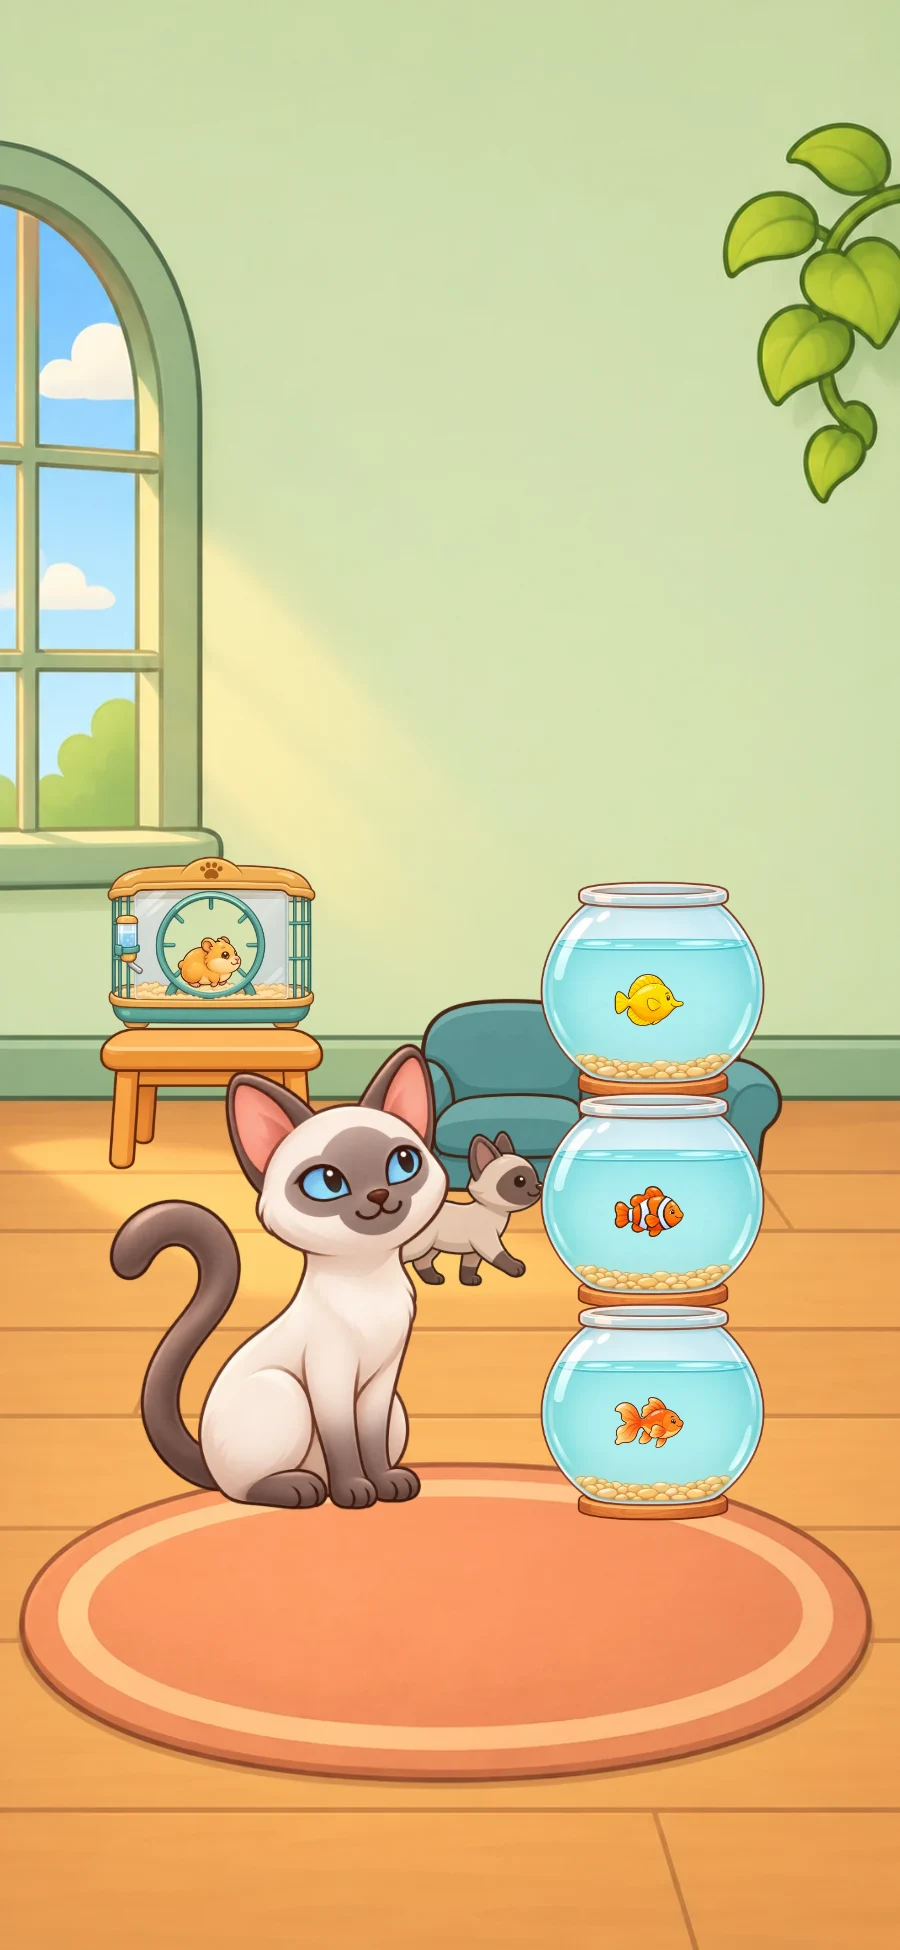
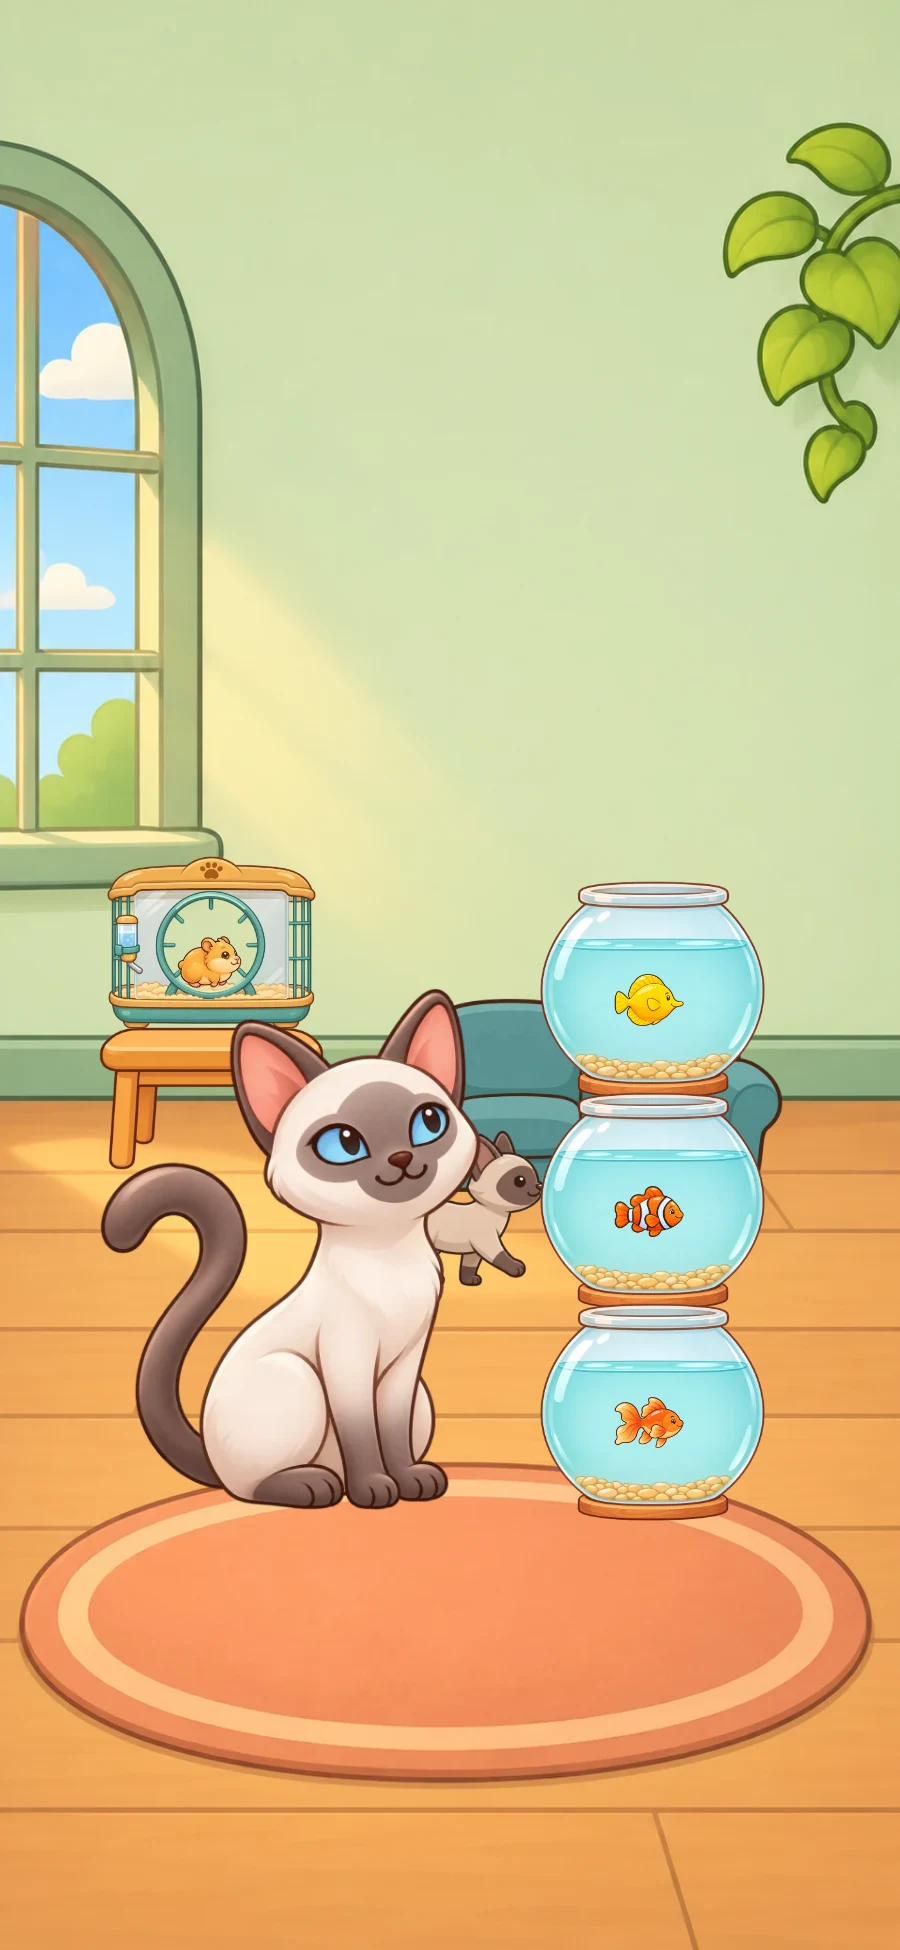
Enlarge Luna and add Cat Room window dust

Changed region(s): [[0.0933, 0.4923, 0.5289, 0.8]]

diff --git a/anim/home-fx.css b/anim/home-fx.css
@@ -4,9 +4,17 @@
 #home-fx .hf { position: absolute; left: var(--x, 50%); display: block; opacity: 0; border-radius: 50%; will-change: transform, opacity;
   width: var(--s, 6px); height: var(--s, 6px); animation-duration: var(--d, 10s); animation-delay: var(--dl, 0s);
   animation-iteration-count: infinite; animation-timing-function: linear; }
-/* rising: pollen / dust motes, embers, bubbles */
-#home-fx .hf-mote, #home-fx .hf-ember, #home-fx .hf-bubble { bottom: -4%; }
-#home-fx .hf-mote { background: radial-gradient(circle, #fff 0 28%, #ffe27a 52%, rgba(255,214,90,0) 72%); box-shadow: 0 0 7px 2px rgba(255,205,80,.75); animation-name: hfRise; }
+/* Cat Room dust stays in the window light while bubbles and embers rise across the screen. */
+#home-fx .hf-mote {
+  top: var(--y); background: radial-gradient(circle, #fff6ce 24%, #ffdc77 60%, #cb9136 75%);
+  box-shadow: 0 0 5px 1px #ffc76599; animation-name: hfWindowMote;
+}
+@keyframes hfWindowMote {
+  from { opacity: 0; transform: translate(0, 8px) scale(.75); }
+  14%, 86% { opacity: var(--o); }
+  to { opacity: 0; transform: translate(calc(32px + var(--dr)), -22px) scale(1.1); }
+}
+#home-fx .hf-ember, #home-fx .hf-bubble { bottom: -4%; }
 #home-fx .hf-ember { background: radial-gradient(circle, #fff3c4, #ffb23e 45%, rgba(255,120,30,0) 72%); box-shadow: 0 0 8px 2px rgba(255,140,40,.7); animation-name: hfRise; }
 #home-fx .hf-bubble { background: radial-gradient(circle at 30% 28%, #fff 0 9%, rgba(255,255,255,.35) 22%, rgba(190,235,255,.18) 62%, rgba(255,255,255,.4) 100%); box-shadow: inset 0 0 0 2px rgba(255,255,255,.85), 0 0 0 1px rgba(40,120,180,.35); animation-name: hfRise; }
 /* falling: snow, petals / leaves, confetti */

diff --git a/anim/home-cat-room.css b/anim/home-cat-room.css
@@ -30,7 +30,7 @@
 #home-art .cr-bobtail[data-state=grooming] .cr-groom { animation: crFirst .65s steps(1, end) infinite; }
 #home-art .cr-bobtail[data-state=grooming] .cr-groom-alt { animation: crSecond .65s steps(1, end) infinite; }
 
-#home-art .cr-luna { left: max(12%, calc((100% - 100dvw) / 2 + 7px)); bottom: 22.5%; width: min(43%, 19.85cqh); transform-origin: 58% 100%; }
+#home-art .cr-luna { left: max(11%, calc((100% - 100dvw) / 2 + 7px)); bottom: 22.5%; width: min(48%, 22.15cqh); transform-origin: 58% 100%; }
 #home-art .cr-luna-body { position: relative; transform-origin: 61% 100%; animation: crBreathe 4.5s ease-in-out infinite; }
 /* Leave the root of the tail on the body so the swaying layer overlaps its join. */
 #home-art .cr-luna-body > :not(.cr-tail) {
